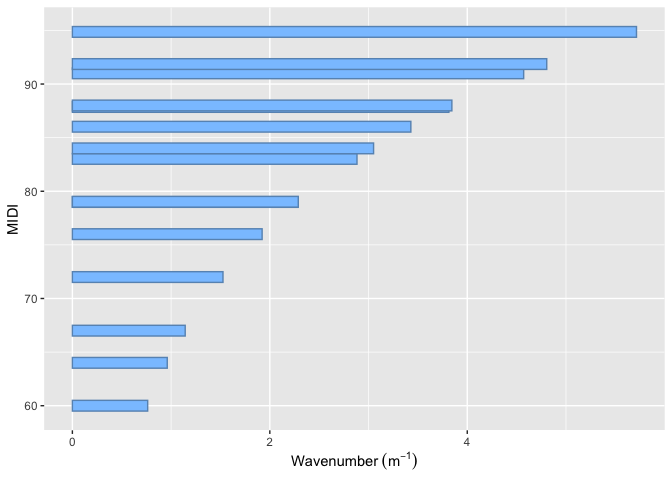
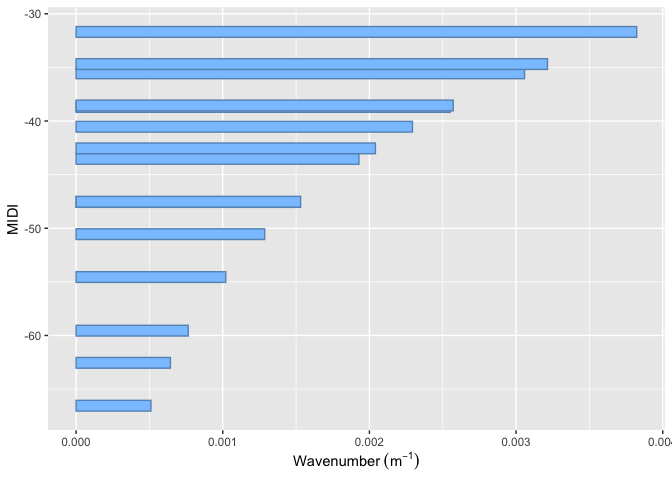
first commit with idealized speed f sound

diff --git a/README.md b/README.md
@@ -80,9 +80,9 @@ Below, we estimate the periodicity of the C4, E4 and G4 major triad with
 
 #### Spatial Estimate
 
-| chord_Hz |  chord_m |   chord_s | chord_Sz | tol |
-|---------:|---------:|----------:|---------:|----:|
-| 4.360426 | 10.50012 | 0.2293354 |       60 | 0.1 |
+|  chord_Hz |  chord_m |  chord_s | chord_Sz | tol |
+|----------:|---------:|---------:|---------:|----:|
+| 0.0029167 | 15697.53 | 342.8531 |       60 | 0.1 |
 
 ##### Wavenumbers
 
@@ -96,21 +96,21 @@ Below, we estimate the periodicity of the C4, E4 and G4 major triad with
 
 | index | num | den |    ratio |      tone | reference_tone |
 |------:|----:|----:|---------:|----------:|---------------:|
-|    15 |   1 |   1 | 1.000000 | 0.1750020 |       0.175002 |
-|    14 |   5 |   4 | 1.189207 | 0.2081137 |       0.175002 |
-|    13 |   4 |   3 | 1.250000 | 0.2187525 |       0.175002 |
-|    12 |   3 |   2 | 1.486509 | 0.2601421 |       0.175002 |
-|    11 |   3 |   2 | 1.498307 | 0.2622068 |       0.175002 |
-|    10 |   5 |   3 | 1.666667 | 0.2916701 |       0.175002 |
-|     9 |   9 |   5 | 1.872884 | 0.3277585 |       0.175002 |
-|     8 |   2 |   1 | 1.982012 | 0.3468561 |       0.175002 |
-|     7 |   5 |   2 | 2.497178 | 0.4370113 |       0.175002 |
-|     6 |   5 |   2 | 2.500000 | 0.4375051 |       0.175002 |
-|     5 |   3 |   1 | 2.973018 | 0.5202842 |       0.175002 |
-|     4 |  11 |   3 | 3.745768 | 0.6555170 |       0.175002 |
-|     3 |   5 |   1 | 5.000000 | 0.8750102 |       0.175002 |
-|     2 |   6 |   1 | 5.946035 | 1.0405683 |       0.175002 |
-|     1 |  15 |   2 | 7.491535 | 1.3110340 |       0.175002 |
+|    15 |   1 |   1 | 1.000000 |  261.6256 |       261.6256 |
+|    14 |   5 |   4 | 1.189207 |  311.1270 |       261.6256 |
+|    13 |   4 |   3 | 1.250000 |  327.0320 |       261.6256 |
+|    12 |   3 |   2 | 1.486509 |  388.9087 |       261.6256 |
+|    11 |   3 |   2 | 1.498307 |  391.9954 |       261.6256 |
+|    10 |   5 |   3 | 1.666667 |  436.0426 |       261.6256 |
+|     9 |   9 |   5 | 1.872884 |  489.9943 |       261.6256 |
+|     8 |   2 |   1 | 1.982012 |  518.5450 |       261.6256 |
+|     7 |   5 |   2 | 2.497178 |  653.3257 |       261.6256 |
+|     6 |   5 |   2 | 2.500000 |  654.0639 |       261.6256 |
+|     5 |   3 |   1 | 2.973018 |  777.8175 |       261.6256 |
+|     4 |  11 |   3 | 3.745768 |  979.9886 |       261.6256 |
+|     3 |   5 |   1 | 5.000000 | 1308.1278 |       261.6256 |
+|     2 |   6 |   1 | 5.946035 | 1555.6349 |       261.6256 |
+|     1 |  15 |   2 | 7.491535 | 1959.9772 |       261.6256 |
 
 ### Finding the Tolerance Values
 
@@ -140,10 +140,10 @@ GitHub](https://github.com/homeymusic/mami.codi.R/tree/2D_tolerance) to
 recreate all the 2D searches.  
 
 The best fits across the experiments were given by a frequency tolerance
-of 0.09 and a wavelength tolerance of 3.3333333^{-6}. The frequency
-tolerance is half the size of the wavelength tolerance. Does that mean
-that the perception mechanism for frequency is twice as discriminating
-as the wavelength mechanism? “At 1 kHz information contained in temporal
+of 0.09 and a wavelength tolerance of 0.09. The frequency tolerance is
+half the size of the wavelength tolerance. Does that mean that the
+perception mechanism for frequency is twice as discriminating as the
+wavelength mechanism? “At 1 kHz information contained in temporal
 discharges was an order of magnitude better than that obtained by a
 rate–place mechanism. Heinz et al. (2001)” from Winter (2005).  
 
